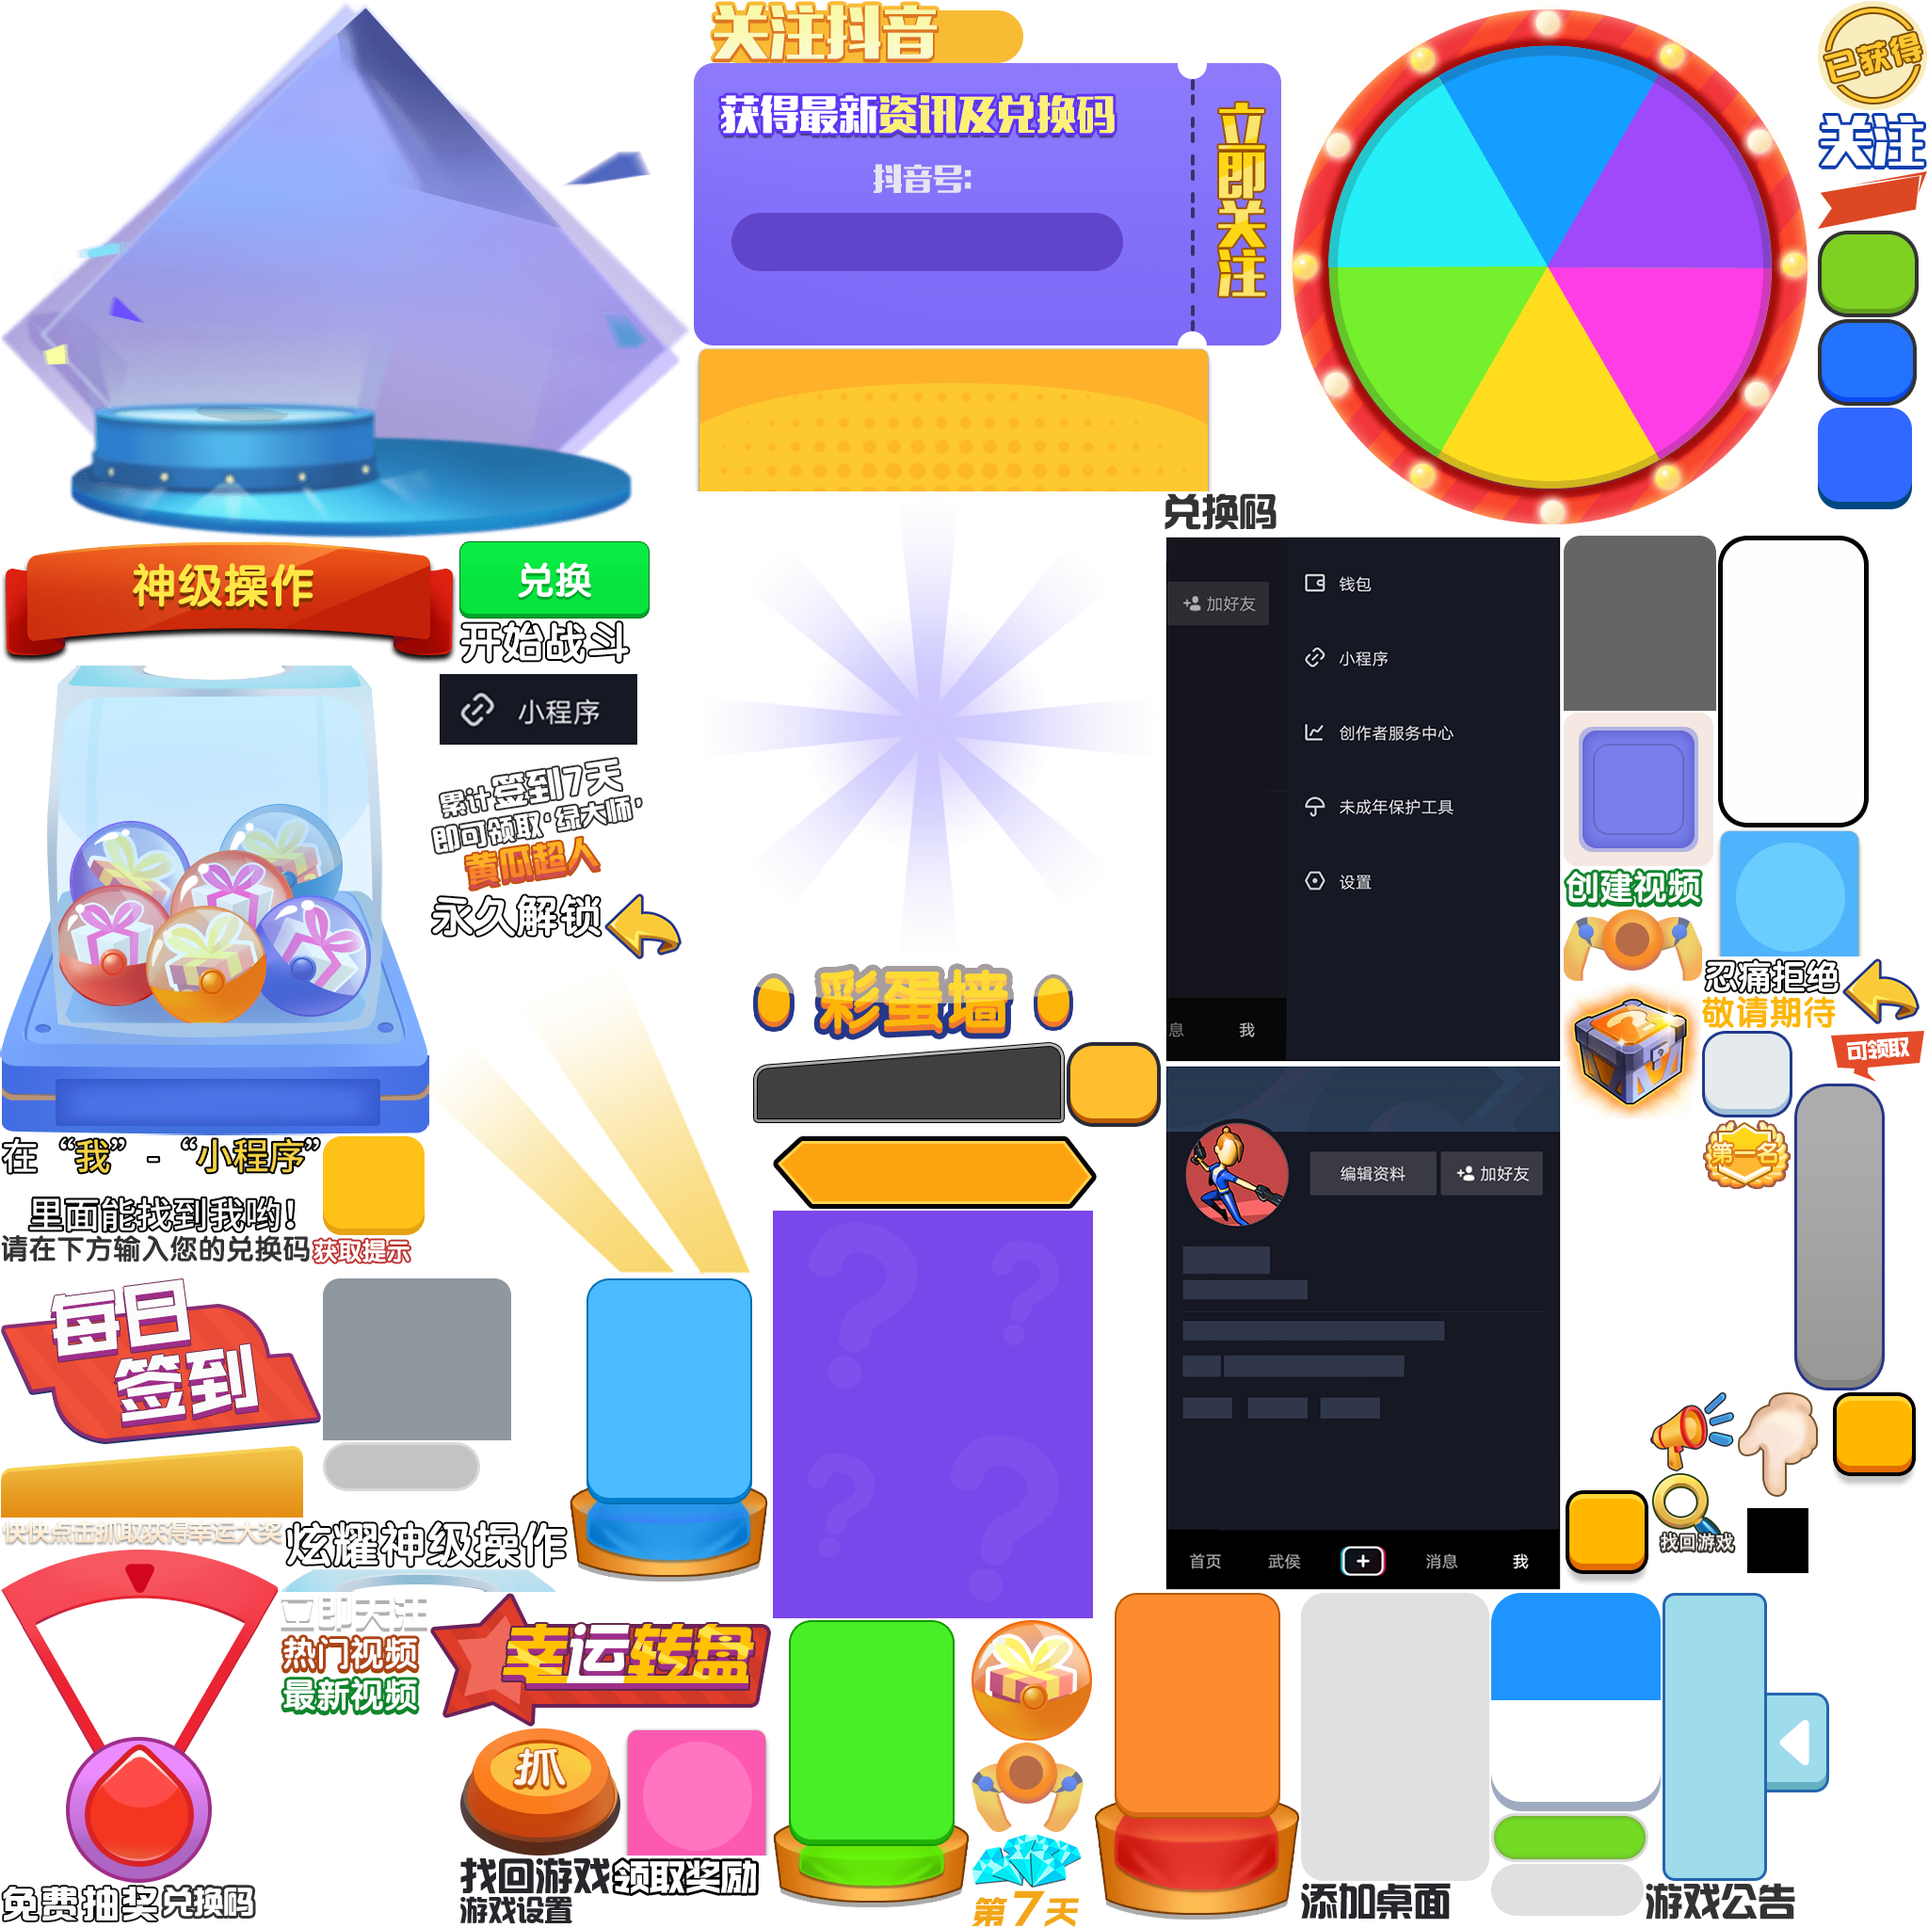
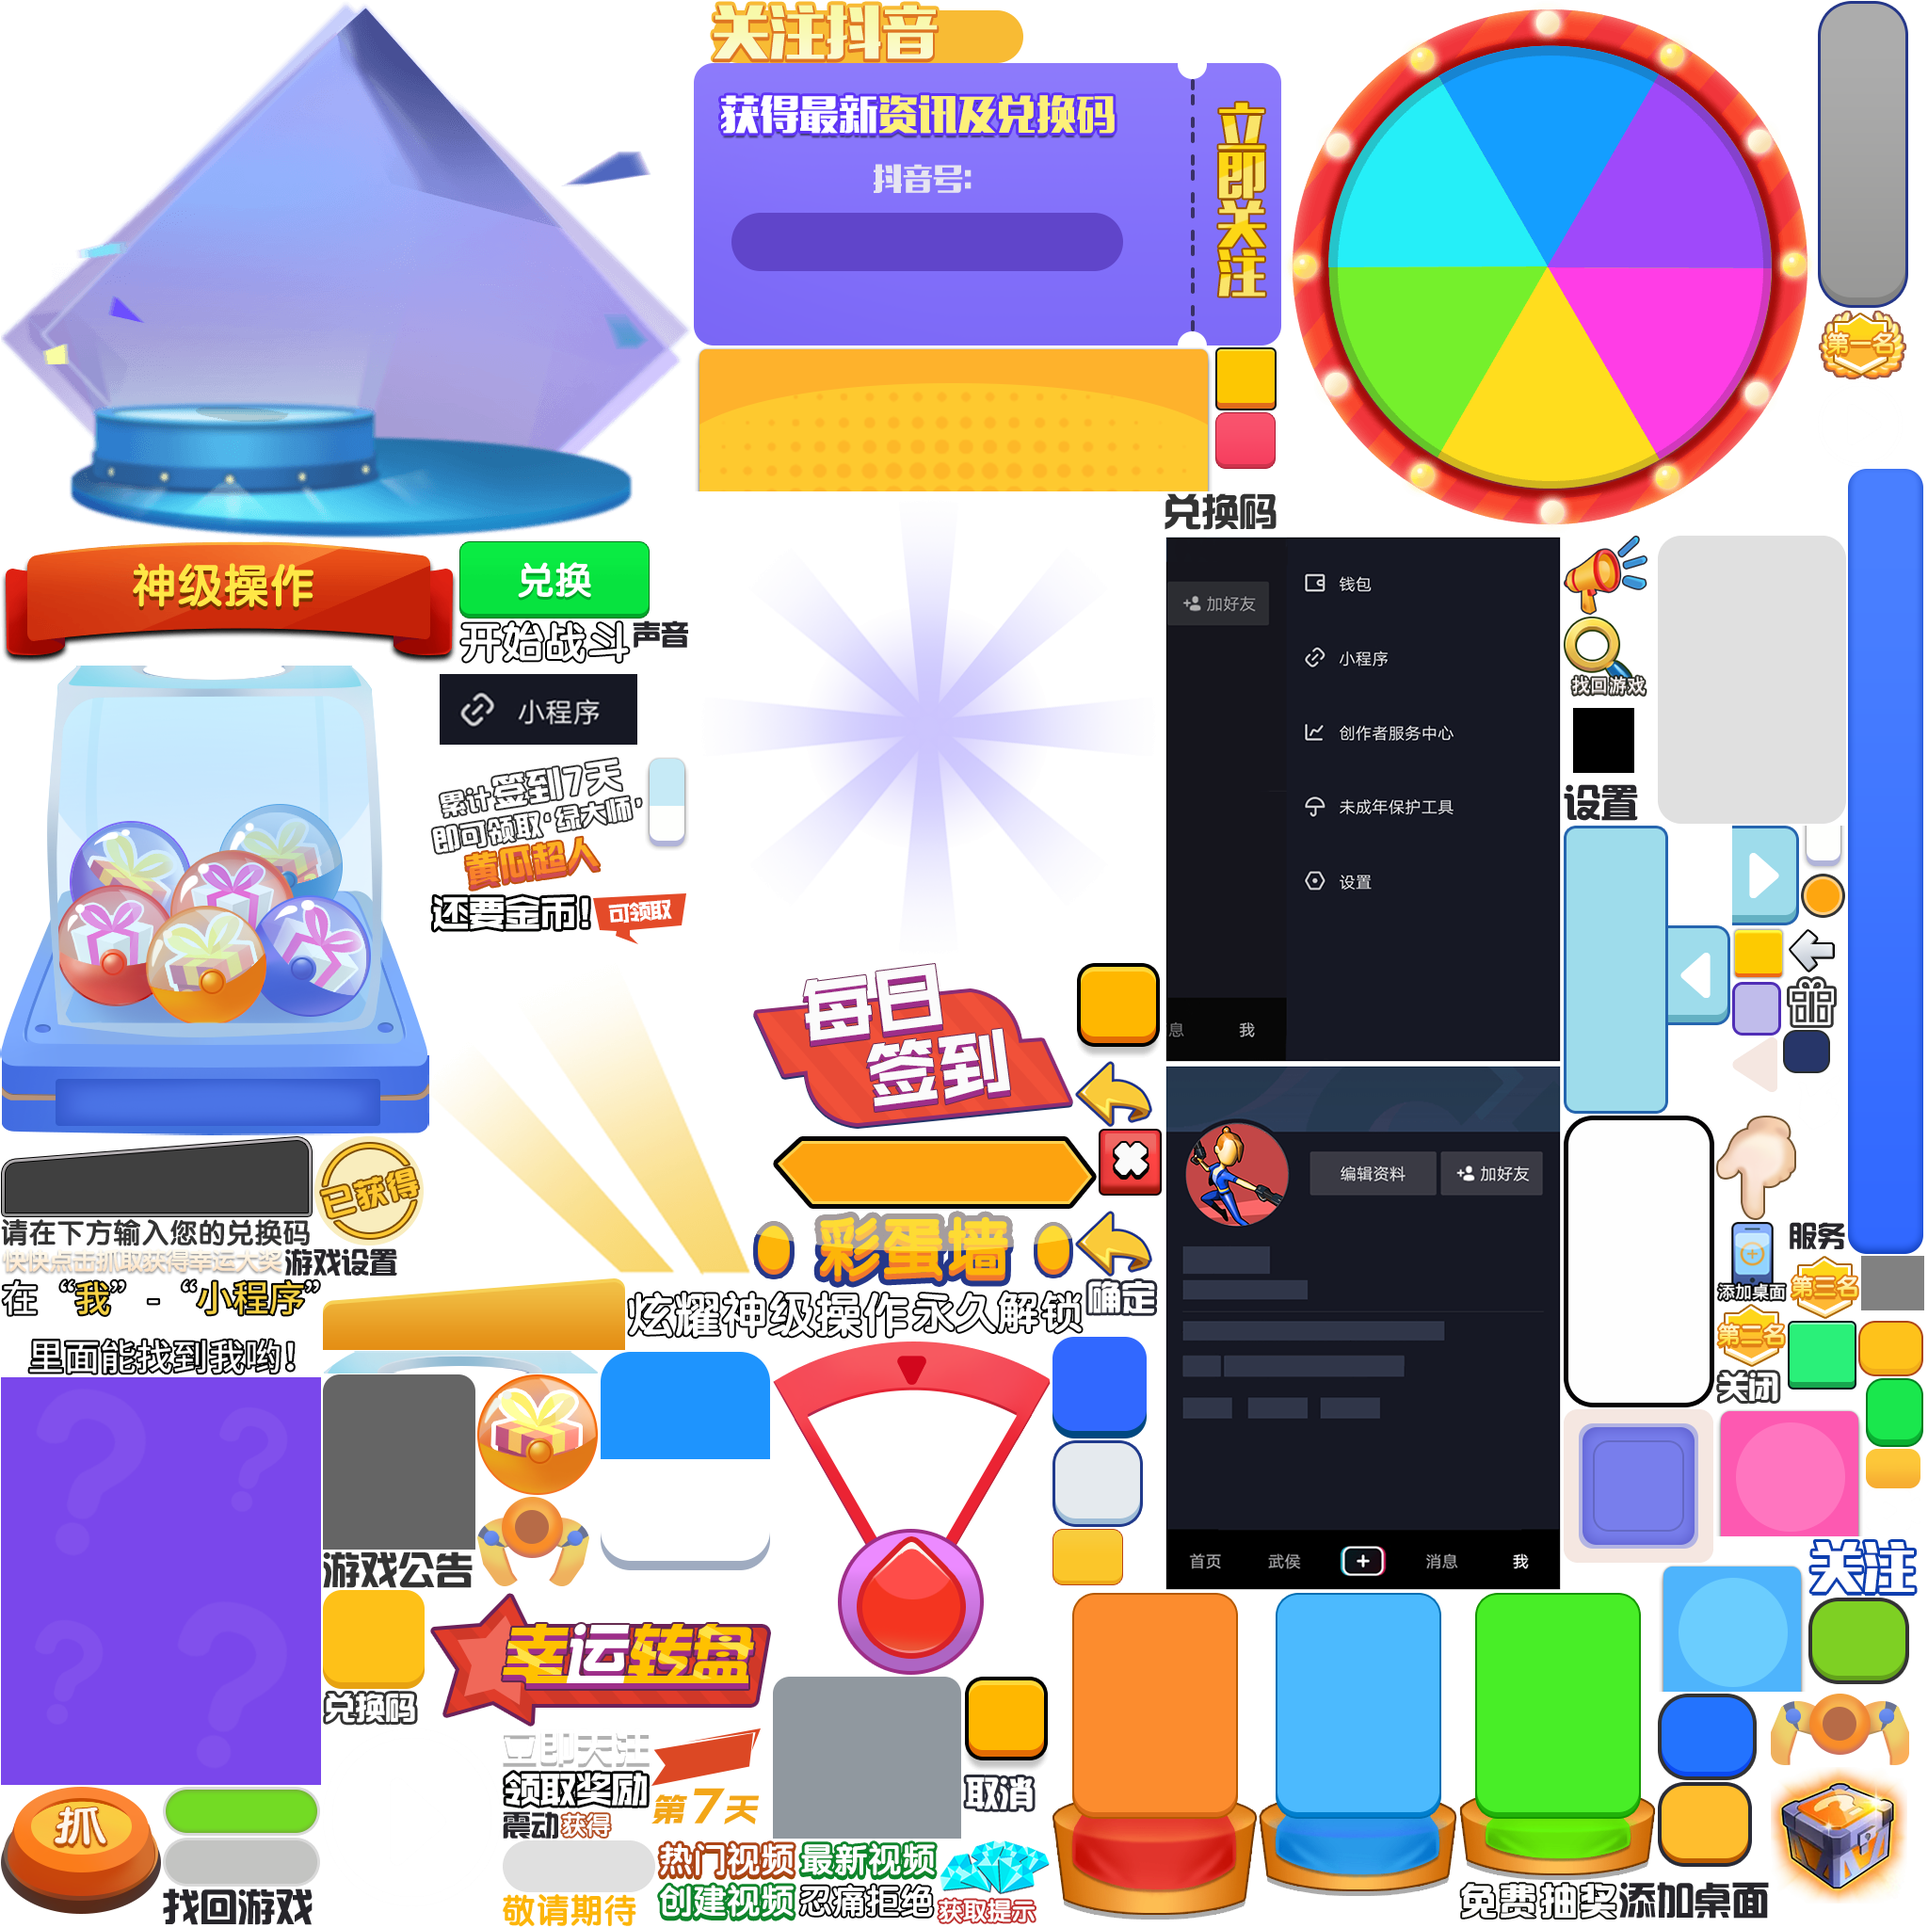
签到界面

diff --git a/FakeProject/code/laya/p_yinyou/src/LTG_CommonUI/UI/LTCom/LTG_UI_view_sign.ts b/FakeProject/code/laya/p_yinyou/src/LTG_CommonUI/UI/LTCom/LTG_UI_view_sign.ts
@@ -6,21 +6,21 @@ import LTG_UI_view_item_sign_03 from "./LTG_UI_view_item_sign_03";
 import LTG_UI_view_item_sign_05 from "./LTG_UI_view_item_sign_05";
 import LTG_UI_view_item_sign_06 from "./LTG_UI_view_item_sign_06";
 import LTG_UI_view_item_sign_07 from "./LTG_UI_view_item_sign_07";
-import LTG_UI_btn_tog from "./LTG_UI_btn_tog";
+import LTG_UI_btn_watchad01 from "./LTG_UI_btn_watchad01";
 
 export default class LTG_UI_view_sign extends fgui.GComponent {
 
 	public m_state:fgui.Controller;
 	public m_day_1:LTG_UI_view_item_sign_01;
-	public m_day_2:LTG_UI_view_item_sign_02;
-	public m_day_3:LTG_UI_view_item_sign_03;
+	public m_day_3:LTG_UI_view_item_sign_02;
+	public m_day_2:LTG_UI_view_item_sign_03;
 	public m_day_4:LTG_UI_view_item_sign_02;
 	public m_day_5:LTG_UI_view_item_sign_05;
 	public m_day_6:LTG_UI_view_item_sign_06;
 	public m_day_7:LTG_UI_view_item_sign_07;
 	public m_text_signed:fgui.GTextField;
-	public m_btn_watchad:fgui.GButton;
-	public m_tog:LTG_UI_btn_tog;
+	public m_btn_normal:LTG_UI_btn_watchad01;
+	public m_btn_watchad:LTG_UI_btn_watchad01;
 
 	public static URL:string = "ui://hbq27te38gel4w";
 
@@ -35,14 +35,14 @@ export default class LTG_UI_view_sign extends fgui.GComponent {
 	protected onConstruct(): void {
 		this.m_state = this.getControllerAt(0);
 		this.m_day_1 = <LTG_UI_view_item_sign_01><any>(this.getChildAt(2));
-		this.m_day_2 = <LTG_UI_view_item_sign_02><any>(this.getChildAt(3));
-		this.m_day_3 = <LTG_UI_view_item_sign_03><any>(this.getChildAt(4));
+		this.m_day_3 = <LTG_UI_view_item_sign_02><any>(this.getChildAt(3));
+		this.m_day_2 = <LTG_UI_view_item_sign_03><any>(this.getChildAt(4));
 		this.m_day_4 = <LTG_UI_view_item_sign_02><any>(this.getChildAt(5));
 		this.m_day_5 = <LTG_UI_view_item_sign_05><any>(this.getChildAt(6));
 		this.m_day_6 = <LTG_UI_view_item_sign_06><any>(this.getChildAt(7));
 		this.m_day_7 = <LTG_UI_view_item_sign_07><any>(this.getChildAt(8));
 		this.m_text_signed = <fgui.GTextField><any>(this.getChildAt(9));
-		this.m_btn_watchad = <fgui.GButton><any>(this.getChildAt(10));
-		this.m_tog = <LTG_UI_btn_tog><any>(this.getChildAt(11));
+		this.m_btn_normal = <LTG_UI_btn_watchad01><any>(this.getChildAt(10));
+		this.m_btn_watchad = <LTG_UI_btn_watchad01><any>(this.getChildAt(11));
 	}
 }

diff --git a/FakeProject/code/laya/p_yinyou/src/LTG_CommonUI/Mediator/LTG_UI_SignMediator.ts b/FakeProject/code/laya/p_yinyou/src/LTG_CommonUI/Mediator/LTG_UI_SignMediator.ts
@@ -52,6 +52,9 @@ export default class LTG_UI_SignMediator extends BaseUIMediator<LTG_UI_Sign> {
         this.ui.m_view.m_day_6.m_loader_icon.url = SignConfig.data[6].show_icon;
         this.ui.m_view.m_day_7.m_loader_icon.url = SignConfig.data[7].show_icon;
         this.ui.m_view.m_state.selectedIndex = CommonSaveData.instance.isSigned ? 1 : 0;
+
+
+
         if (CommonSaveData.instance.isSigned) {
             let displayDay = CommonSaveData.instance.signDayCount % 7;
             for (let i = 0; i < displayDay; ++i) {
@@ -71,29 +74,20 @@ export default class LTG_UI_SignMediator extends BaseUIMediator<LTG_UI_Sign> {
             this._currentReward = SignConfig.data[displayDay + 1];
             this._cacheUIItem = itemUI;
             this.ui.m_view.m_text_signed.visible = false;
-            this.ui.m_view.m_btn_watchad.onClick(this, this._OnClickGet);
+            this.ui.m_view.m_btn_normal.onClick(this, this._OnClickGet);
+            this.ui.m_view.m_btn_watchad.onClick(this, this._OnClickWatchAd);
         }
-        this._isToggled = LTSDK.instance.isADEnable;//LTSDK.instance.checkState == ECheckState.InCheck ? false : true;
-        this.ui.m_view.m_tog.visible = LTSDK.instance.isADEnable;
-        this.ui.m_view.m_tog.m_selected.selectedIndex = this._isToggled ? 1 : 0;
-        this.ui.m_view.m_tog.onClick(this, this._OnClickToggle);
+
     }
 
-    private _OnClickToggle() {
-        this._isToggled = !this._isToggled;
-        this.ui.m_view.m_tog.m_selected.selectedIndex = this._isToggled ? 1 : 0;
-    }
+
 
     private _OnClickGet() {
-        if (this.ui.m_view.m_tog.m_selected.selectedIndex == 1) {
-            this._OnClickWatchAd();
-        } else {
-            CommonSaveData.instance.isSigned = true;
-            CommonSaveData.instance.signDayCount++;
-            CommonSaveData.SaveToDisk();
-            this._cacheConfig.onSign?.runWith([this._currentReward, false]);
-            this.Hide();
-        }
+        CommonSaveData.instance.isSigned = true;
+        CommonSaveData.instance.signDayCount++;
+        CommonSaveData.SaveToDisk();
+        this._cacheConfig.onSign?.runWith([this._currentReward, false]);
+        this.Hide();
     }
 
     private async _OnClickWatchAd() {

diff --git a/FakeProject/code/laya/p_yinyou/src/LTG_CommonUI/UI/LTCom/LTComBinder.ts b/FakeProject/code/laya/p_yinyou/src/LTG_CommonUI/UI/LTCom/LTComBinder.ts
@@ -30,7 +30,7 @@ import LTG_UI_view_item_sign_03 from "./LTG_UI_view_item_sign_03";
 import LTG_UI_view_item_sign_05 from "./LTG_UI_view_item_sign_05";
 import LTG_UI_view_item_sign_06 from "./LTG_UI_view_item_sign_06";
 import LTG_UI_view_item_sign_07 from "./LTG_UI_view_item_sign_07";
-import LTG_UI_btn_tog from "./LTG_UI_btn_tog";
+import LTG_UI_btn_watchad01 from "./LTG_UI_btn_watchad01";
 import LTG_UI_HideMenu from "./LTG_UI_HideMenu";
 import LTG_UI_view_hidemenu from "./LTG_UI_view_hidemenu";
 import LTG_UI_toggle_01 from "./LTG_UI_toggle_01";
@@ -87,7 +87,7 @@ export default class LTComBinder{
 		fgui.UIObjectFactory.setExtension(LTG_UI_view_item_sign_05.URL, LTG_UI_view_item_sign_05);
 		fgui.UIObjectFactory.setExtension(LTG_UI_view_item_sign_06.URL, LTG_UI_view_item_sign_06);
 		fgui.UIObjectFactory.setExtension(LTG_UI_view_item_sign_07.URL, LTG_UI_view_item_sign_07);
-		fgui.UIObjectFactory.setExtension(LTG_UI_btn_tog.URL, LTG_UI_btn_tog);
+		fgui.UIObjectFactory.setExtension(LTG_UI_btn_watchad01.URL, LTG_UI_btn_watchad01);
 		fgui.UIObjectFactory.setExtension(LTG_UI_HideMenu.URL, LTG_UI_HideMenu);
 		fgui.UIObjectFactory.setExtension(LTG_UI_view_hidemenu.URL, LTG_UI_view_hidemenu);
 		fgui.UIObjectFactory.setExtension(LTG_UI_toggle_01.URL, LTG_UI_toggle_01);

diff --git a/FakeProject/code/laya/p_yinyou/src/LTG_CommonUI/UI/LTCom/LTG_UI_btn_watchad01.ts b/FakeProject/code/laya/p_yinyou/src/LTG_CommonUI/UI/LTCom/LTG_UI_btn_watchad01.ts
@@ -1,0 +1,26 @@
+/** This is an automatically generated class by FairyGUI. Please do not modify it. **/
+
+
+
+export default class LTG_UI_btn_watchad01 extends fgui.GButton {
+
+	public m_ad:fgui.Controller;
+	public m_bg:fgui.GLoader;
+	public m_t0:fgui.Transition;
+
+	public static URL:string = "ui://hbq27te38gel5i";
+
+	public static createInstance():LTG_UI_btn_watchad01 {
+		return <LTG_UI_btn_watchad01><any>(fgui.UIPackage.createObject("LTCom","btn_watchad01"));
+	}
+
+	public constructor() {
+		super();
+	}
+
+	protected onConstruct(): void {
+		this.m_ad = this.getControllerAt(0);
+		this.m_bg = <fgui.GLoader><any>(this.getChildAt(0));
+		this.m_t0 = this.getTransitionAt(0);
+	}
+}
